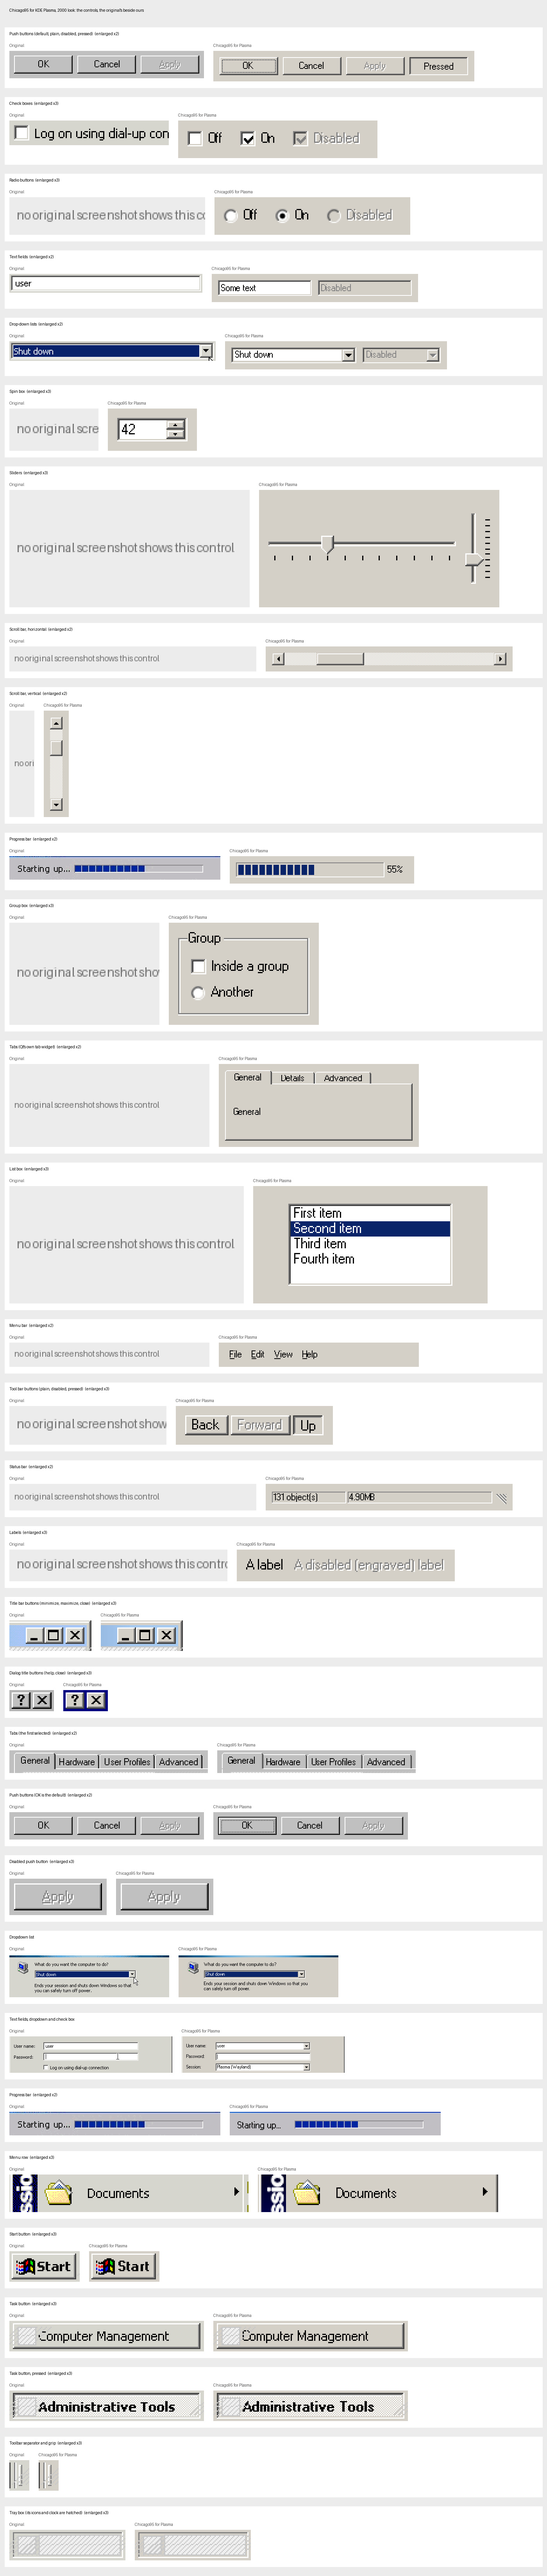
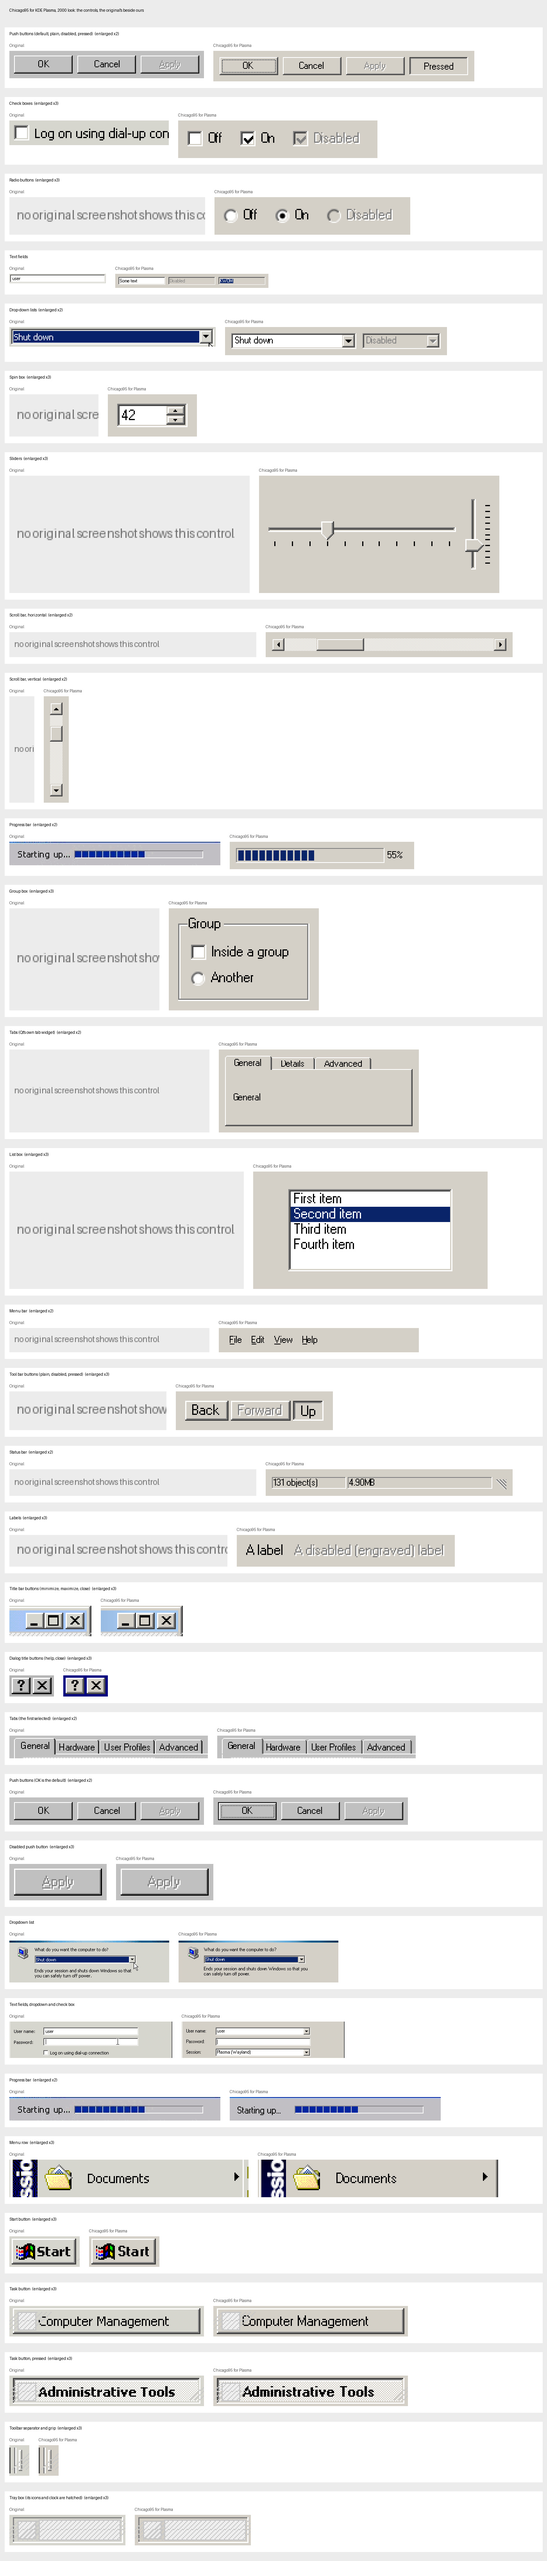
Update UI components and tests: enhance radio button graphics, add tooltips for quick launch cells, and update test cases for better coverage

diff --git a/plasmoids/org.chicago95.tasks/contents/ui/main.qml b/plasmoids/org.chicago95.tasks/contents/ui/main.qml
@@ -164,6 +164,7 @@ PlasmoidItem {
                     PlasmaCore.ToolTipArea {
                         anchors.fill: parent
                         mainText: entry.model.display
+                        icon: entry.model.decoration
                     }
                     MouseArea {
                         id: launcherArea

diff --git a/tests/controls_gallery.py b/tests/controls_gallery.py
@@ -207,8 +207,13 @@ ORIGINALS = {
         "Status bar": ("win95desktop3", (216, 423, 637, 441)),
     },
     "1998": {
-        "Push buttons (default, plain, disabled, pressed)": ("win98sysprops", (239, 409, 407, 440)),   # above the site's watermark
-        "Radio buttons": ("win98shutsm", (96, 70, 240, 124)),
+        "Push buttons (default, plain, disabled, pressed)": ("win98dialing", (138, 430, 384, 462)),
+        "Check boxes": ("win98dialing", (30, 243, 200, 264)),
+        "Radio buttons": ("win98dialing", (92, 274, 250, 296)),
+        "Text fields": ("win98newconnection", (148, 62, 431, 93)),
+        "Drop-down lists": ("win98dialing", (32, 71, 166, 100)),
+        "Group box": ("win98dialing", (20, 148, 374, 374)),
+        "Tabs (Qt's own tab widget)": ("win98dialing", (4, 26, 200, 60)),
         "Scroll bar, horizontal": ("win98notepad", (7, 342, 392, 360)),
         "Scroll bar, vertical": ("win98notepad", (389, 47, 406, 188)),   # down to the alert that covers the rest
     },
@@ -233,7 +238,12 @@ def render_control(app, make, inspect=None):
     patch.adjustSize()
     patch.show()
     app.processEvents()
-    for widget in patch.findChildren(QWidget):   # no focus but the default button's, or a widget made to keep it, as the originals show them
+    # Focus goes to a widget made to keep it (a field showing its selection) or to a default button, as the
+    # originals show them; nothing else gets a focus rectangle.
+    keepers = [widget for widget in patch.findChildren(QWidget) if widget.property("keepsFocus")]
+    if keepers:
+        keepers[0].setFocus()
+    for widget in patch.findChildren(QWidget):
         if widget.hasFocus() and not isinstance(widget, QPushButton) and not widget.property("keepsFocus"):
             widget.clearFocus()
     app.processEvents()

diff --git a/lib/chicago95ui.py b/lib/chicago95ui.py
@@ -319,9 +319,9 @@ def dialog_button(caption, enabled=True):
 # (tests/test_qt_controls_reference.py): s shadow, K black, l light, W white, . the window colour.
 CHECK_BOX = ["ssssssssssssW", "sKKKKKKKKKKlW"] + ["sKWWWWWWWWWlW"] * 9 + ["slllllllllllW", "WWWWWWWWWWWWW"]
 CHECK_MARK = ["WWWWWWWWW", "WWWWWWWKW", "WWWWWWKKW", "WKWWWKKKW", "WKKWKKKWW", "WKKKKKWWW", "WWKKKWWWW", "WWWKWWWWW", "WWWWWWWWW"]
-RADIO_BUTTON = ["...ssss.....", ".ssKKKKss...", "sKKWWWWKKW..", "sKWWWWWWlW..", "KWWWWWWWWlW.", "KWWWWWWWWlW.",
-                "KWWWWWWWWlW.", "KWWWWWWWWlW.", "sKWWWWWWlW..", "sllWWWWllW..", ".WWllllWW...", "...WWWW....."]
-RADIO_DOT = [(4, 4), (5, 4), (3, 5), (4, 5), (5, 5), (6, 5), (3, 6), (4, 6), (5, 6), (6, 6), (4, 7), (5, 7)]
+RADIO_BUTTON = ["....ssss....", "..ssKKKKss..", ".sKKWWWWKKW.", ".sKWWWWWWlW.", "sKWWWWWWWWlW", "sKWWWWWWWWlW",
+                "sKWWWWWWWWlW", "sKWWWWWWWWlW", ".sKWWWWWWlW.", ".sllWWWWllW.", "..WWllllWW..", "....WWWW...."]
+RADIO_DOT = [(5, 4), (6, 4), (4, 5), (5, 5), (6, 5), (7, 5), (4, 6), (5, 6), (6, 6), (7, 6), (5, 7), (6, 7)]
 
 
 def paint_bitmap(painter, left, top, rows, colours):

diff --git a/tests/test_quick_launch_drop.py b/tests/test_quick_launch_drop.py
@@ -63,8 +63,10 @@ def test_tasks_applet_wires_dragging_and_dropping_to_the_launchers_library():
             "tasksModel.move(" in main_qml) == (True, True, True, True)
 
 
-def test_quick_launch_cells_show_the_programs_name_as_a_tooltip():
+def test_quick_launch_cells_show_the_programs_name_and_icon_as_a_tooltip():
     main_qml = (REPO / "plasmoids/org.chicago95.tasks/contents/ui/main.qml").read_text()
     launcher_cell = main_qml.split("id: launcherCell")[1].split("Component {")[0]
 
-    assert ("PlasmaCore.ToolTipArea" in launcher_cell, "mainText: entry.model.display" in launcher_cell) == (True, True)
+    tooltip = launcher_cell.split("PlasmaCore.ToolTipArea {")[1].split("}")[0]
+
+    assert ("mainText: entry.model.display" in tooltip, "icon: entry.model.decoration" in tooltip) == (True, True)
